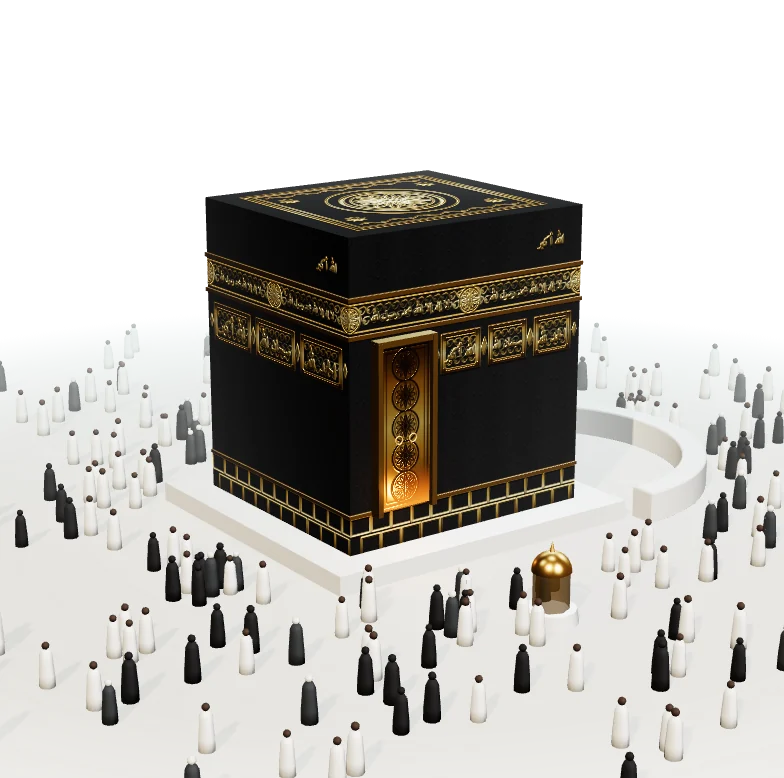
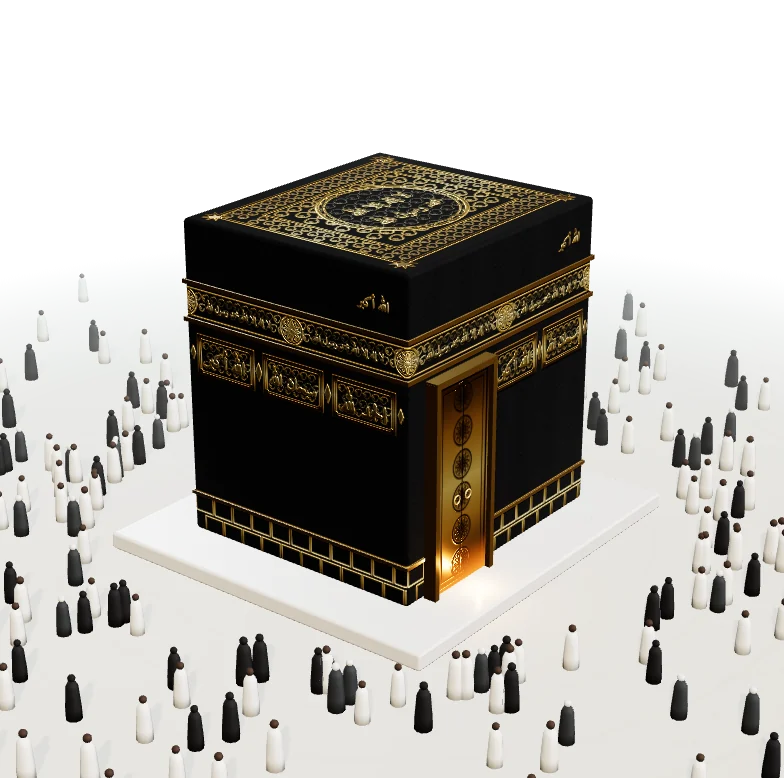
Кааба как на образце

Changed region(s): [[0.0, 0.1851, 1.0, 1.0], [0.0, 0.9563, 0.0612, 1.0], [0.0918, 0.9871, 0.1531, 1.0]]

diff --git a/index.html b/index.html
@@ -1319,8 +1319,8 @@ renderTours();
   } catch (_) {}
 })();
 </script>
-<!-- 3D-Кааба (three.js): Масджид аль-Харам в миниатюре — Кааба, Хиджр Исмаил,
-     Макам Ибрахим, мраморный Матаф и паломники. При прокрутке вид облетает
+<!-- 3D-Кааба (three.js): Масджид аль-Харам в миниатюре — Кааба на мраморном постаменте
+     (как на образце владельца), мраморный Матаф и паломники. При прокрутке вид облетает
      Каабу, а паломники идут вокруг неё против часовой стрелки (таваф).
      Надписи — только Шахада, «الله أكبر», «سبحان الله», «الحمد لله» (шрифт Amiri).
      Пока сцена грузится (и если WebGL недоступен), виден готовый снимок этой же сцены. -->
@@ -1328,6 +1328,7 @@ renderTours();
 <script type="module">
 import * as THREE from 'three';
 import {RoomEnvironment} from 'three/addons/environments/RoomEnvironment.js';
+import {RoundedBoxGeometry} from 'three/addons/geometries/RoundedBoxGeometry.js';
 
 const stage = document.querySelector('.kaaba-stage');
 const reduce = matchMedia('(prefers-reduced-motion: reduce)').matches;
@@ -1374,7 +1375,7 @@ function build(withText) {
   // ---------- Кааба в стиле образца: чёрная кисва, рельефное золото, мраморный постамент ----------
   // Орнамент только геометрический и растительный — без букв и надписей.
   const H = 13.1, W = 12, D = 10.8;            // высота, ширина грани с дверью, глубина
-  const PLINTH = 0.85, PL_PAD = 1.6;            // мраморный постамент: высота и выступ
+  const PLINTH = 0.7, PL_PAD = 2.4;             // мраморный постамент: тонкий и широкий, как на образце
   const PPM = innerWidth < 720 ? 72 : 112;     // точек текстуры на метр
   const GOLD_STOPS = [[0, '#8A6418'], [.24, '#DDB247'], [.5, '#FCE9A8'], [.7, '#E8C25E'], [1, '#8A6418']];   // ярко-жёлтое золото, как на образце
 
@@ -1543,15 +1544,30 @@ function build(withText) {
   }
   function roofFace() {
     const P = pair(Math.round(W * PPM), Math.round(D * PPM)), {cx, w, h} = P;
-    cx.fillStyle = '#0A0A0C'; cx.fillRect(0, 0, w, h);
+    cx.fillStyle = '#050506'; cx.fillRect(0, 0, w, h);
     const g = P.gold(0, h), m = Math.min(w, h);
-    P.draw(rect(w * .1, h * .1, w * .8, h * .8), {stroke: g, lw: m * .018});
-    P.draw(rect(w * .13, h * .13, w * .74, h * .74), {stroke: g, lw: m * .006});
-    vines(P, w * .16, h * .14, w * .68, h * .07, g, w * .68 / 6);
-    vines(P, w * .16, h * .79, w * .68, h * .07, g, w * .68 / 6);
-    rosette(P, w / 2, h / 2, m * .2, g);
-    P.draw(circle(w / 2, h / 2, m * .26), {stroke: g, lw: m * .008});
-    for (const [x, y] of [[.2, .27], [.8, .27], [.2, .73], [.8, .73]]) P.draw(starPath(w * x, h * y, m * .045, 8, .45), {fill: g});
+    // широкая рамка, внутри сплошная вязь
+    const o = m * .08, i = m * .2;
+    P.draw(rect(o, o, w - 2 * o, h - 2 * o), {stroke: g, lw: m * .014});
+    P.draw(rect(i, i, w - 2 * i, h - 2 * i), {stroke: g, lw: m * .01});
+    for (const [x, y, ww, hh] of [[o, o, w - 2 * o, i - o], [o, h - i, w - 2 * o, i - o], [o, i, i - o, h - 2 * i], [w - i, i, i - o, h - 2 * i]])
+      filigree(P, x + m * .006, y + m * .006, ww - m * .012, hh - m * .012, g, (i - o) * .42);
+    for (const [x, y] of [[o, o], [w - o, o], [o, h - o], [w - o, h - o]]) P.draw(starPath(x, y, m * .05, 8, .45), {fill: g});
+    // поле внутри рамки: тонкая вязь, по углам — веера
+    filigree(P, i + m * .01, i + m * .01, w - 2 * i - m * .02, h - 2 * i - m * .02, g, m * .07);
+    cx.save(); cx.globalAlpha = .7; cx.fillStyle = '#050506';
+    cx.beginPath(); cx.arc(w / 2, h / 2, m * .27, 0, Math.PI * 2); cx.fill(); cx.restore();
+    // медальон: кольца, лепестки по кругу, в центре — Шахада в две строки
+    P.draw(circle(w / 2, h / 2, m * .27), {stroke: g, lw: m * .014});
+    P.draw(circle(w / 2, h / 2, m * .245), {stroke: g, lw: m * .005});
+    for (let k = 0; k < 24; k++) {
+      const a = k * Math.PI / 12, r1 = m * .25, r2 = m * .27;
+      P.draw(circle(w / 2 + Math.cos(a) * (r1 + r2) / 2, h / 2 + Math.sin(a) * (r1 + r2) / 2, m * .006), {fill: g});
+    }
+    if (withText) {
+      arText(P, 'لا إله إلا الله', w / 2, h / 2 - m * .065, m * .36, m * .11, g, .06);
+      arText(P, 'محمد رسول الله', w / 2, h / 2 + m * .075, m * .36, m * .11, g, .06);
+    } else rosette(P, w / 2, h / 2, m * .2, g);
     return P;
   }
   const material = P => {
@@ -1560,11 +1576,12 @@ function build(withText) {
       roughness: 1, metalness: 1, envMapIntensity: 1.7, sheen: .3, sheenColor: new THREE.Color(0x1E1E23), sheenRoughness: .5,
       specularIntensity: .28});   // ткань почти без бликов — Кааба остаётся чёрной; на золото не влияет
   };
-  const DOOR_X = 2.5, DW = 2.5;                // центр двери от левого (восточного) угла, ширина
+  // Дверь — у восточного угла грани (как у настоящей Каабы и на образце: сразу за центральным ребром).
+  const DW = 3.3, DOOR_X = 2.9;                 // центр двери от левого края грани, ширина (как на образце)
   const sideD = material(sideFace(D)), sideW = material(sideFace(W)), roofM = material(roofFace());
   const sideDoor = material(sideFace(W, [DOOR_X - DW / 2 - .3, DOOR_X + DW / 2 + .3]));
   const plain = new THREE.MeshStandardMaterial({color: 0x0A0A0C, roughness: .9});
-  const kaaba = new THREE.Mesh(new THREE.BoxGeometry(W, H, D), [sideD, sideD, roofM, plain, sideDoor, sideW]);
+  const kaaba = new THREE.Mesh(new RoundedBoxGeometry(W, H, D, 4, .18), [sideD, sideD, roofM, plain, sideDoor, sideW]);
   kaaba.position.y = PLINTH + H / 2;
   kaaba.castShadow = true; kaaba.receiveShadow = true;
   scene.add(kaaba);
@@ -1592,12 +1609,12 @@ function build(withText) {
   }
   const marbleTex = tex(mc);
   const marble = new THREE.MeshStandardMaterial({map: marbleTex, roughness: .32, envMapIntensity: .8});
-  const plinth = new THREE.Mesh(new THREE.BoxGeometry(W + PL_PAD * 2, PLINTH, D + PL_PAD * 2), marble);
+  const plinth = new THREE.Mesh(new RoundedBoxGeometry(W + PL_PAD * 2, PLINTH, D + PL_PAD * 2, 3, .12), marble);
   plinth.position.y = PLINTH / 2; plinth.castShadow = true; plinth.receiveShadow = true;
   scene.add(plinth);
 
   // Дверь: высокая золотая панель у восточного угла, снизу — тёплое свечение
-  const DH = H * (LATTICE - BAND[1]) - .35;
+  const DH = H * (1 - BAND[1]) - .45;            // от постамента до пояса, как на образце
   const DP = pair(Math.round(DW * PPM * 1.6), Math.round(DH * PPM * 1.6));
   {
     const {cx, w, h} = DP, g = DP.gold(0, h);
@@ -1606,17 +1623,17 @@ function build(withText) {
     const dark = '#6A4813';
     DP.draw(rect(w * .05, h * .025, w * .9, h * .95), {stroke: dark, lw: w * .025, relief: 40});
     DP.draw(rect(w * .12, h * .05, w * .76, h * .9), {stroke: dark, lw: w * .01, relief: 40});
-    for (let i = 0; i < 5; i++) rosette(DP, w / 2, h * (.13 + i * .185), w * .26, dark);
+    for (let i = 0; i < 6; i++) rosette(DP, w / 2, h * (.1 + i * .16), Math.min(w * .28, h * .066), dark);
     DP.draw(rect(w / 2 - w * .006, h * .05, w * .012, h * .9), {fill: dark, relief: 40});
   }
   const [ec, ex] = cnv(64, 256);
   const eg = ex.createLinearGradient(0, 0, 0, 256);
-  eg.addColorStop(0, '#000'); eg.addColorStop(.72, '#000'); eg.addColorStop(1, '#FFB347');
+  eg.addColorStop(0, '#000'); eg.addColorStop(.8, '#000'); eg.addColorStop(1, '#FFB347');
   ex.fillStyle = eg; ex.fillRect(0, 0, 64, 256);
   const doorMat = material(DP);
   Object.assign(doorMat, {emissive: new THREE.Color(0xFFB347), emissiveMap: tex(ec), emissiveIntensity: 1.4});
   const door = new THREE.Mesh(new THREE.BoxGeometry(DW, DH, .35), doorMat);
-  door.position.set(-W / 2 + DOOR_X, PLINTH + H * (1 - LATTICE) + DH / 2, D / 2 + .17);
+  door.position.set(-W / 2 + DOOR_X, PLINTH + .05 + DH / 2, D / 2 + .17);
   door.castShadow = true;
   scene.add(door);
   const frameGold = new THREE.MeshStandardMaterial({color: 0xE2BC66, metalness: 1, roughness: .2, envMapIntensity: 1.8});
@@ -1631,34 +1648,8 @@ function build(withText) {
     scene.add(ring);
   }
   const doorGlow = new THREE.PointLight(0xFFB347, 18, 9, 2);
-  doorGlow.position.set(door.position.x, PLINTH + H * (1 - LATTICE) + .4, D / 2 + 1.2);
+  doorGlow.position.set(door.position.x, PLINTH + .5, D / 2 + 1.2);
   scene.add(doorGlow);
-
-  const HX = W / 2 + PL_PAD + 0.6;              // Хиджр Исмаил — за постаментом
-
-  // Хиджр Исмаил — полукруглая мраморная стена у северо-западной грани
-  const arc = new THREE.Shape();
-  arc.absarc(0, 0, 8.0, -Math.PI / 2, Math.PI / 2, false);
-  arc.absarc(0, 0, 7.0, Math.PI / 2, -Math.PI / 2, true);
-  const hijrGeo = new THREE.ExtrudeGeometry(arc, {depth: 1.3, bevelEnabled: true, bevelSize: .08, bevelThickness: .08, bevelSegments: 2, curveSegments: 48});
-  hijrGeo.rotateX(-Math.PI / 2);
-  const hijr = new THREE.Mesh(hijrGeo, marble);
-  hijr.position.set(HX, 0, 0);
-  hijr.castShadow = true; hijr.receiveShadow = true;
-  scene.add(hijr);
-
-  // Макам Ибрахим — золотой купол на мраморном постаменте напротив двери
-  const gold = new THREE.MeshStandardMaterial({color: 0xD9AE58, metalness: 1, roughness: .28, envMapIntensity: 1.3});
-  const maqam = new THREE.Group();
-  const ped = new THREE.Mesh(new THREE.CylinderGeometry(1.0, 1.1, 0.55, 32), marble); ped.position.y = .28;
-  const cage = new THREE.Mesh(new THREE.CylinderGeometry(.72, .72, 1.5, 8, 1, true),
-    new THREE.MeshStandardMaterial({color: 0xC9A04A, metalness: .9, roughness: .35, transparent: true, opacity: .55, side: THREE.DoubleSide}));
-  cage.position.y = .55 + .75;
-  const dome = new THREE.Mesh(new THREE.SphereGeometry(.78, 32, 12, 0, Math.PI * 2, 0, Math.PI / 2), gold); dome.position.y = .55 + 1.5;
-  const tip = new THREE.Mesh(new THREE.ConeGeometry(.12, .5, 12), gold); tip.position.y = .55 + 1.5 + .95;
-  for (const p of [ped, cage, dome, tip]) { p.castShadow = true; maqam.add(p); }
-  maqam.position.set(-2.4, 0, D / 2 + 8.2);
-  scene.add(maqam);
 
   // Матаф — белый мрамор, к краям плавно растворяется в странице
   const [fc, fx] = cnv(1024, 1024);
@@ -1694,7 +1685,7 @@ function build(withText) {
   const COUNT = innerWidth < 720 ? 300 : 600;
   const people = [];
   for (let i = 0; i < COUNT; i++) {
-    const r = 11.2 + Math.pow(Math.random(), 1.7) * 21;   // гуще всего у постамента
+    const r = 12.6 + Math.pow(Math.random(), 1.7) * 20;   // гуще всего у постамента
     people.push({r, a0: Math.random() * Math.PI * 2, v: .8 + Math.random() * .45, ph: Math.random() * 6.28,
       g: Math.random() < groups[0].share ? 0 : Math.random() < .64 ? 1 : 2, s: .92 + Math.random() * .16});
   }
@@ -1712,8 +1703,7 @@ function build(withText) {
     for (const p of people) {
       // против часовой стрелки, если смотреть сверху: угол растёт, z = -r·sin
       const a = p.a0 + walk * p.v * (16 / p.r);
-      // Хиджр Исмаил обходят снаружи: у северо-западной грани круг раздувается
-      const r = Math.max(p.r, HX + 8.9 * Math.max(0, Math.cos(a)) + (p.r - 11.2) * .6);
+      const r = p.r;
       const x = r * Math.cos(a), z = -r * Math.sin(a);
       const bob = Math.abs(Math.sin(walk * 9 * p.v + p.ph)) * .05;
       q.setFromAxisAngle(up, a);
@@ -1739,8 +1729,8 @@ function build(withText) {
   scene.add(rim);
 
   const camera = new THREE.PerspectiveCamera(24, 1, 1, 500);
-  const target = new THREE.Vector3(0, 5.6, 0);
-  const DIST = innerWidth < 720 ? 82 : 72, ELEV = THREE.MathUtils.degToRad(20), AZ0 = THREE.MathUtils.degToRad(-36);
+  const target = new THREE.Vector3(0, 6.2, 0);
+  const DIST = innerWidth < 720 ? 76 : 66, ELEV = THREE.MathUtils.degToRad(27), AZ0 = THREE.MathUtils.degToRad(-52);
   function placeCamera(s) {
     const az = AZ0 + s * 0.0011;
     camera.position.set(DIST * Math.cos(ELEV) * Math.sin(az), DIST * Math.sin(ELEV), DIST * Math.cos(ELEV) * Math.cos(az));
